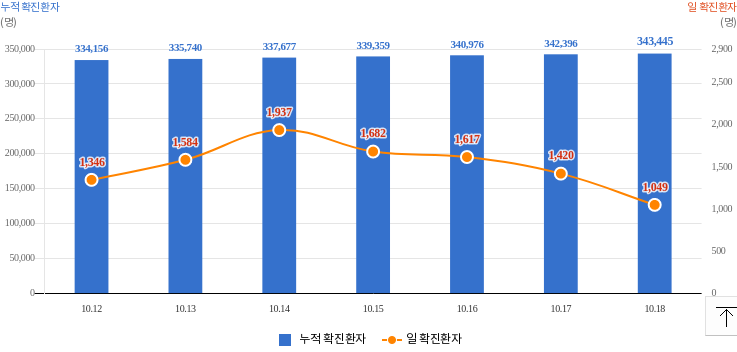
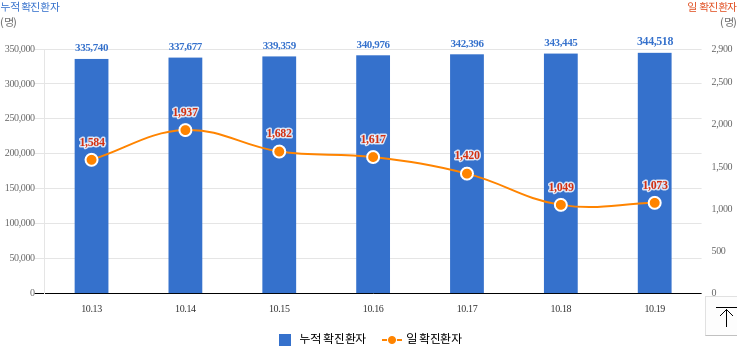
Run crawler and update current data

diff --git a/data.js b/data.js
@@ -7,7 +7,7 @@ var 검사중 = '1,439';
 var 검사결과 = '475,814';
 var 자가격리자 = '377';
 var 거리두기단계 = '사회적 거리두기  3단계 시행 : 2021. 10. 18.(월) 0시 ~ 10. 31.(일) 24시';
-var 국내발생 = '1,030';
-var 해외발생 = '20';
-var 합계 = '1050';
+var 국내발생 = '1,048';
+var 해외발생 = '25';
+var 합계 = '1073';
 var data = [];
